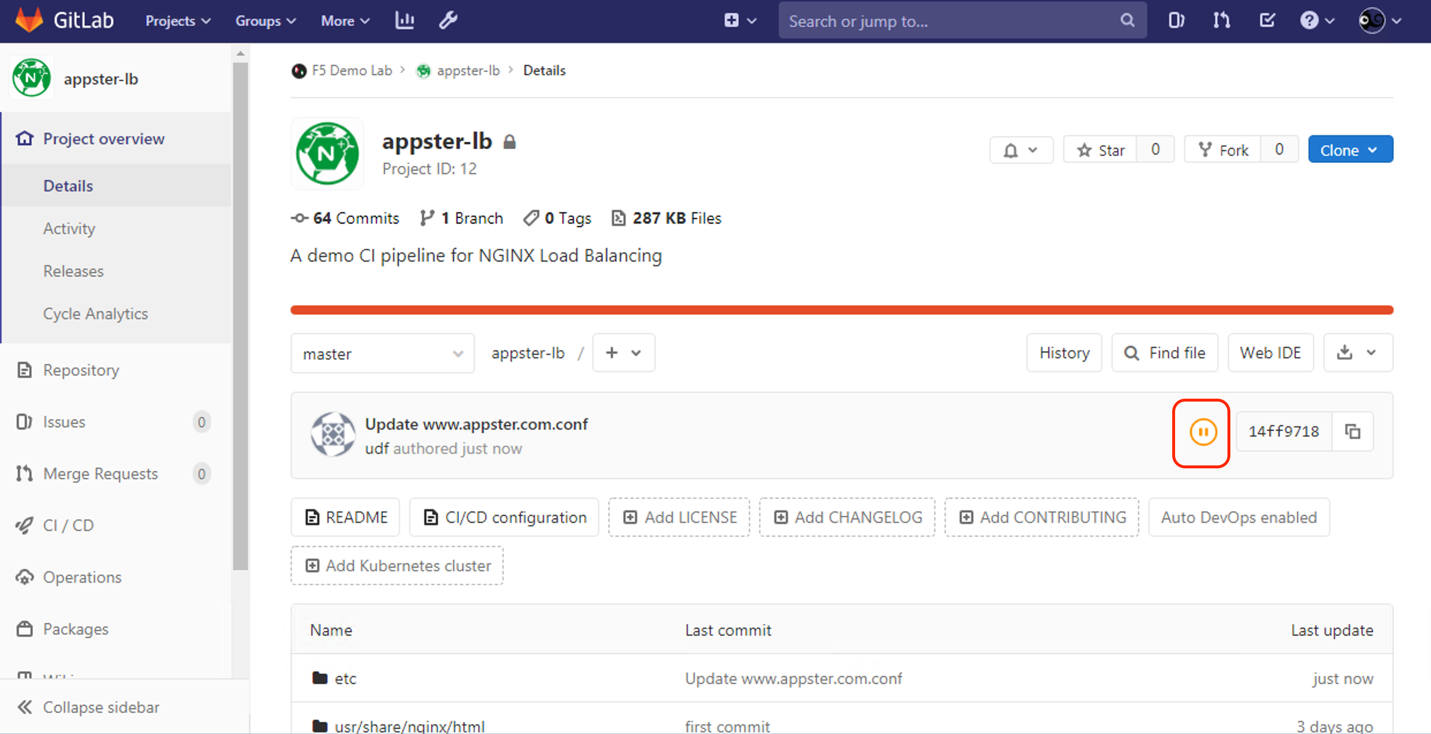
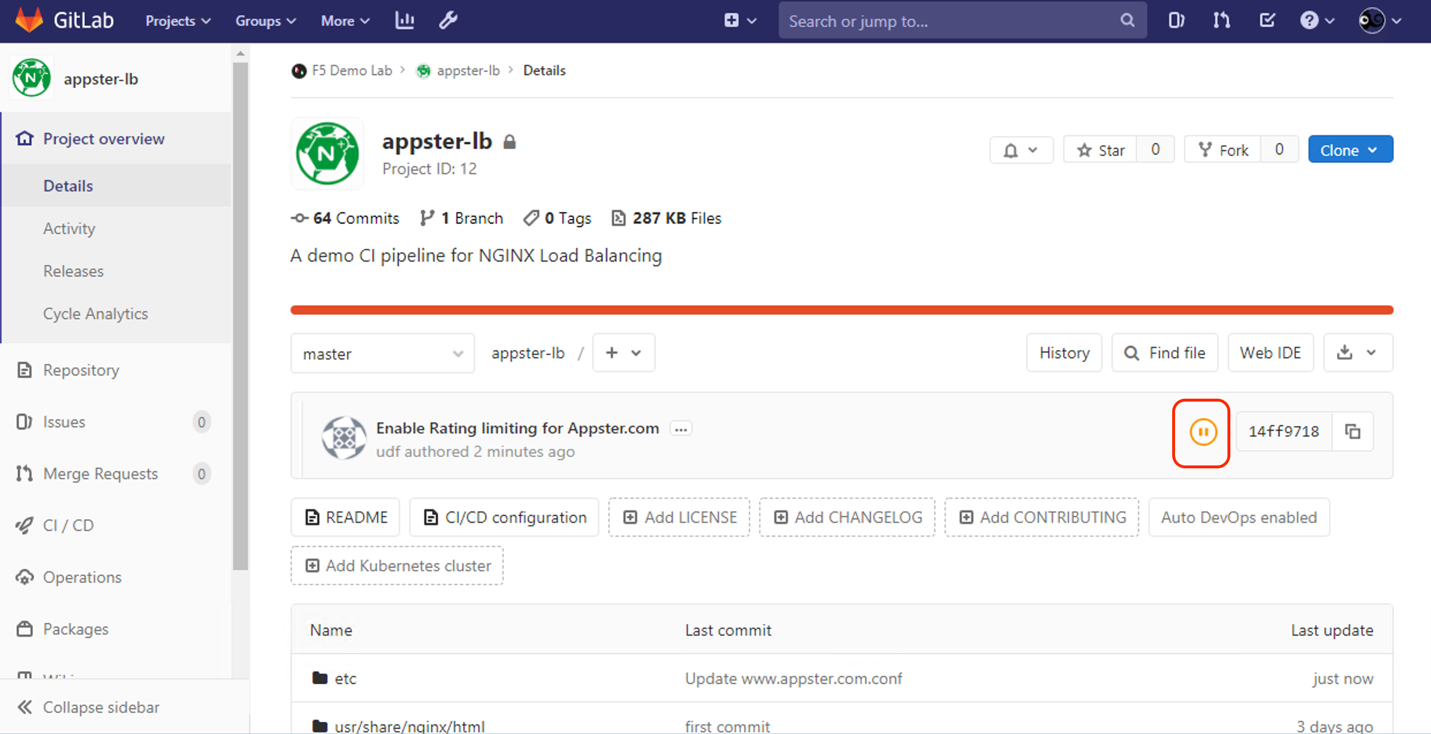
doc fixes

Changed region(s): [[0.2152, 0.5695, 0.4612, 0.6294]]

diff --git a/3.0.continuous-deployment-for-nginx-plus-load-balancers/3.0.continuous-deployment-for-nginx-plus-load-balancers.md b/3.0.continuous-deployment-for-nginx-plus-load-balancers/3.0.continuous-deployment-for-nginx-plus-load-balancers.md
@@ -277,13 +277,63 @@ we will enable Rate limiting to our Appster service
     same command run in the previous step and view the user experience
     through the web browser
 
-    If you are happy with your testing, commit the new code to our git
-    repository and deploy to production!
+    If you are happy with your testing, we need to  commit the new code to our git
+    repository, so changes are tracked!
 
 > **Note:** This Staging and Production servers in this lab can handle limited load
 > Do not expect more that 800 request per second through the load balancer
 
-11. Remember we have purposely left deployment to Production to a human
+11. Open `www.appster.com.conf` and increase the 10 requests per second
+    to 10000 requests per second on our rating limiting rule:
+
+    ```ini
+    # Rate limit
+    # Uncomment lines below to enable here
+    limit_req_zone $binary_remote_addr zone=limit_me:1m rate=10000r/s;
+    ```
+
+    ![Increase rate limit](./media/image15.png)
+
+12.  Once you have edited `www.appster.com.conf` and increased the
+    rate limit, go ahead and **save** the
+    file. You can navigate to `file` -> `save` or you can use the shortcut,
+    **CTRL+S**.
+
+13. We will see the tracked changes back on the **GitHub Desktop Client**.
+    In the lower-left of the GitHub, Desktop Client provide a
+    **Commit title** and **note** before we can commit to master.
+
+    You can see two boxes. Go ahead and type in the **title** field: `"Enable Rating limiting for Appster.com"`. 
+
+    Additionally, you can provide notes as well, type in the **notes** field: `"Enable 10000 request per second in the root '/' location."`
+
+    Once you fill in both boxes, click on **Commit to Master** and on
+    the next screen, press **"Push to Origin"** to push the new code
+    commit to our git repository on Gitlab.
+
+    ![A screenshot of Github client desktop](./media/image16.png)
+
+    ![A screenshot of Github client desktop](./media/image5.png)
+
+14. Open up the **appster-lb** repository on Gitlab by the URI, 
+    [`https://gitlab.f5demolab.com/f5-demo-lab.appster-lb`](https://gitlab.f5demolab.com/f5-demo-lab.appster-lb) 
+    or using the **Appster-lb** shortcut provided so we can view the pipeline in progress
+
+    The pipeline is automatically triggered, and we can follow its progress
+    by clicking the pipeline status icon on the main repo homepage and then
+    pipeline status icon on the commit screen.
+
+    ![A screenshot pipeline status](./media/image6.png)
+
+    ![A screenshot pipeline status](./media/image17.png)
+
+    Once our pipeline has completed, our new rate limiting configuration
+    are automaticly deployed to our Staging server
+
+    Once again have a quick check on staging or use the load test tool, `vegeta`
+    once again. Once you have validated the changes we can push to production!
+    
+15. Remember we have purposely left deployment to Production to a human
     trigger, press the **Play button** to deploy the new code to
     Production. We can click on the title to the progress of the
     deployment stage in realtime.
